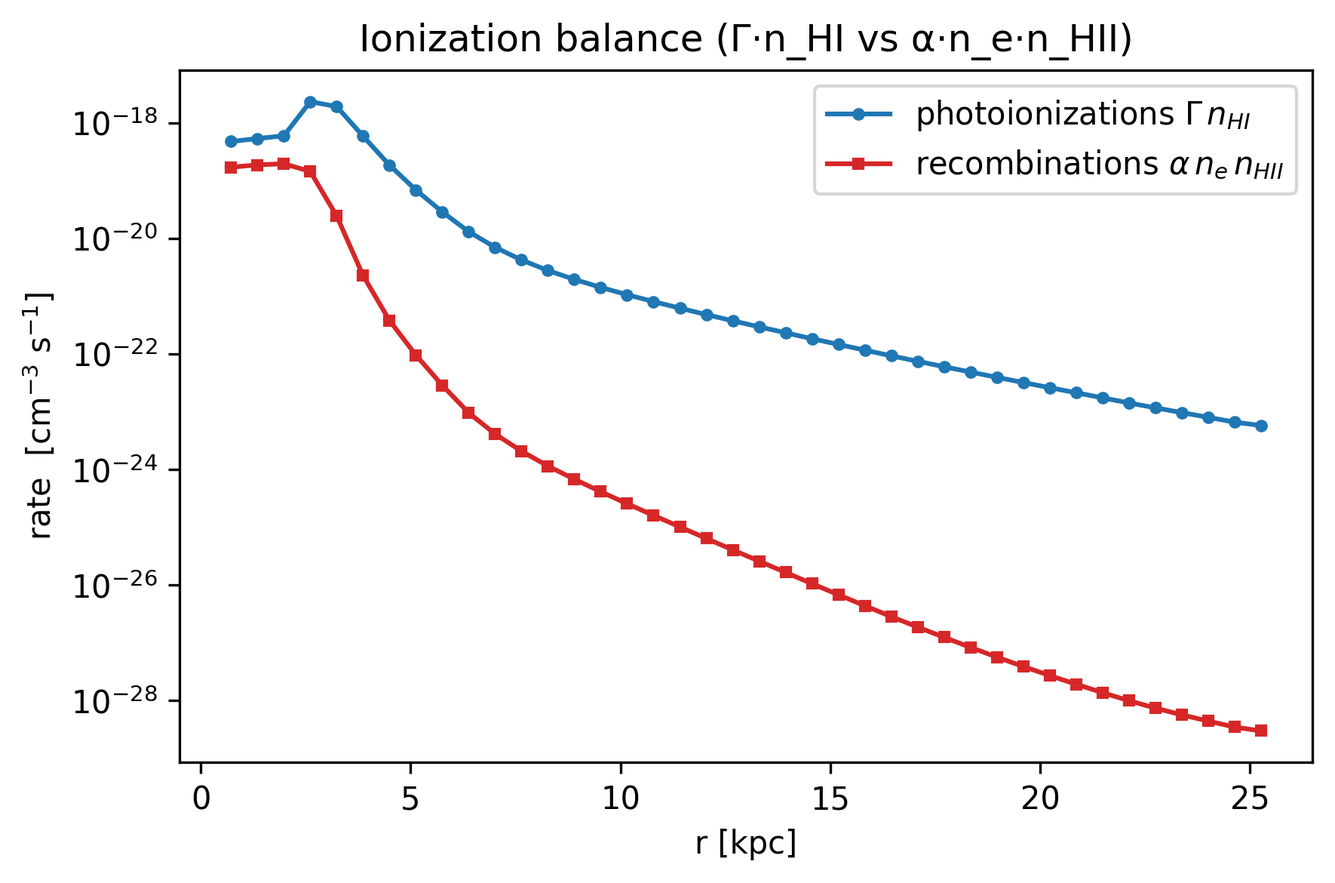
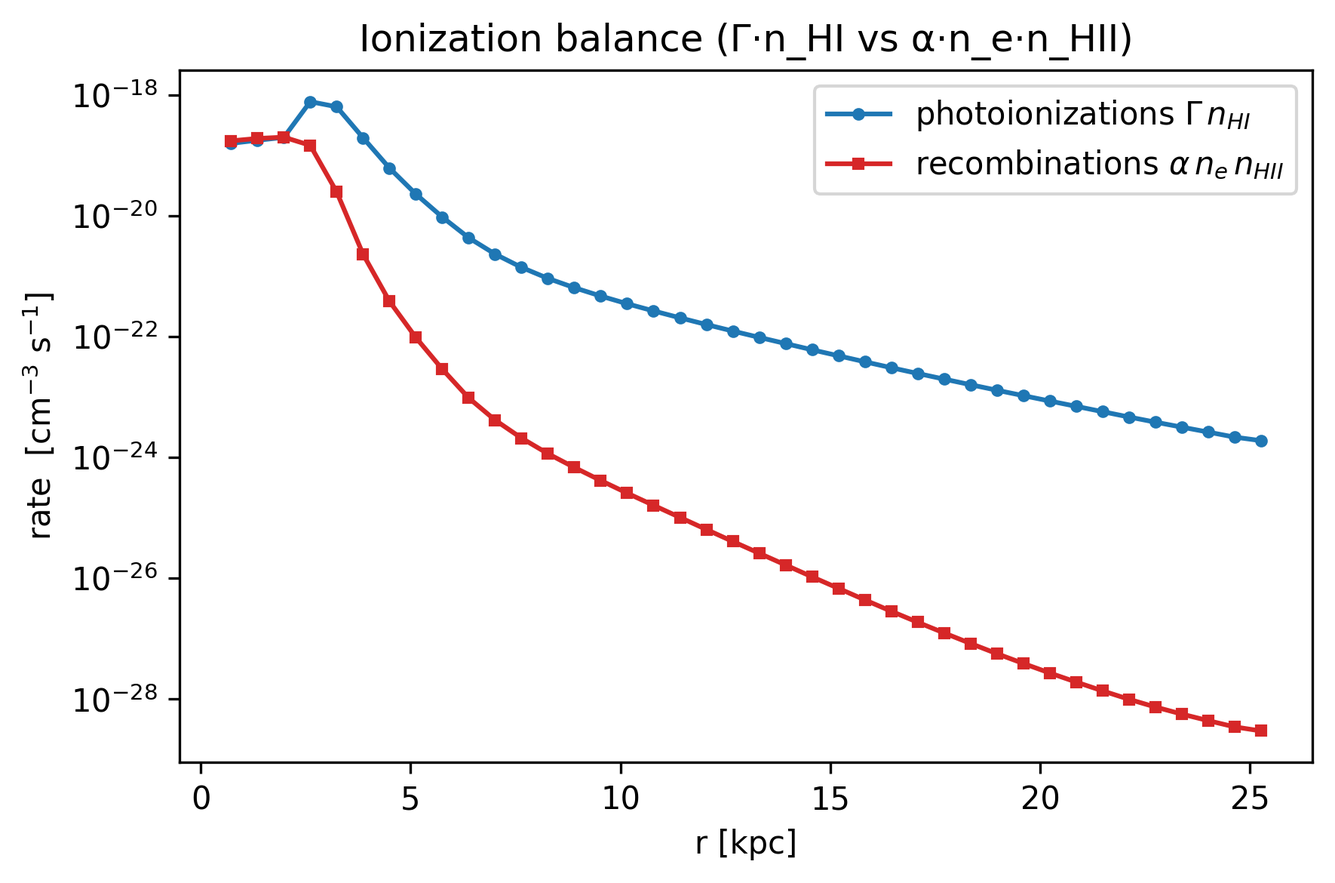
docs(rt): re-run with the photon density fix

diff --git a/docs/src/10_multi_RadiativeTransfer.md b/docs/src/10_multi_RadiativeTransfer.md
@@ -81,8 +81,8 @@ show_map(p.maps[:Np_total]; logscale=true,
 |       |    ___|    __  |       |
 | ||_|| |   |___|   |  | |   _   |
 |_|   |_|_______|___|  |_|__| |__|
-Mera v1.8.0 | Julia 1.12.7 | 4 threads
-[Mera]: 2026-08-31T13:57:52.461
+Mera v1.8.1 | Julia 1.12.7 | 4 threads
+[Mera]: 2026-10-22T19:03:28.663
 Code: RAMSES
 output [3] summary:
 mtime: 2026-08-20T16:57:42.963
@@ -115,16 +115,17 @@ clumps:           false
 -------------------------------------------------------
 namelist-file: ("&COOLING_PARAMS", "&AMR_PARAMS", "&OUTPUT_PARAMS", "&BOUNDARY_PARAMS", "&RT_PARAMS", "&RT_GROUPS\t\t\t! Blackbody at T=1d5 Kelvin", "&UNITS_PARAMS", "&RUN_PARAMS", "! the Sedov fixture the boundaries here are NOT periodic (see &BOUNDARY_PARAMS), so plain", "&HYDRO_PARAMS", "! Run:  mpirun -np 8 <build>/bin/ramses3d_rt stromgren3d.nml > run.log 2>&1", "&INIT_PARAMS", "&REFINE_PARAMS")
 -------------------------------------------------------
+boundaries:       not periodic (&BOUNDARY_PARAMS closes x, y, z)
 timer-file:       true
 compilation-file: true
 makefile:         true
 patchfile:        true
 =======================================================
-Processing files: 100%|██████████████████████████████████████████████████| Time: 0:00:00 (66.58 ms/it)
+Processing files: 100%|██████████████████████████████████████████████████| Time: 0:00:00 (72.05 ms/it)
 ✓ File processing complete! Combining results...
 ```
 
-![](10_multi_RadiativeTransfer_files/10_multi_RadiativeTransfer_4_10.png)
+![](10_multi_RadiativeTransfer_files/10_multi_RadiativeTransfer_4_16.png)
 
 **Takeaway:** `getinfo → getrt → projection → show_map` already reveals the ionized sphere.
 Everything below varies *what* we put through this same pipeline.
@@ -224,7 +225,7 @@ show_map(psub.maps[:Np_total]; logscale=true, clabel=L"$\log_{10}\,N_p^{\rm tota
 ```
 
 ```
-(full_cells = length(rt.data), sphere_cells = length(sub.data), shell_cells = length(shell.data)) = (full_cells = 32768, sphere_cells = 6176, shell_cells = 8864)
+(full_cells = length(rt.data), sphere_cells = length(sub.data), shell_cells = length(shell.data)) = (full_cells = 32768, sphere_cells = 6176, shell_cells = 9640)
 ```
 
 ![](10_multi_RadiativeTransfer_files/10_multi_RadiativeTransfer_13_3.png)
@@ -348,7 +349,7 @@ Columns:
 8   p          Float64
 9   scalar_00  Float64
 10  scalar_01  Float64
-11  scalar_02  Float64, InfoType(3, "/Volumes/FASTStorage/Simulations/Mera-Tests/RAMSES-PUBLIC/stromgren3d", FileNamesType("/Volumes/FASTStorage/Simulations/Mera-Tests/RAMSES-PUBLIC/stromgren3d/output_00003", "/Volumes/FASTStorage/Simulations/Mera-Tests/RAMSES-PUBLIC/stromgren3d/output_00003/info_00003.txt", "/Volumes/FASTStorage/Simulations/Mera-Tests/RAMSES-PUBLIC/stromgren3d/output_00003/amr_00003.", "/Volumes/FASTStorage/Simulations/Mera-Tests/RAMSES-PUBLIC/stromgren3d/output_00003/hydro_00003.", "/Volumes/FASTStorage/Simulations/Mera-Tests/RAMSES-PUBLIC/stromgren3d/output_00003/hydro_file_descriptor.txt", "/Volumes/FASTStorage/Simulations/Mera-Tests/RAMSES-PUBLIC/stromgren3d/output_00003/grav_00003.", "/Volumes/FASTStorage/Simulations/Mera-Tests/RAMSES-PUBLIC/stromgren3d/output_00003/part_00003.", "/Volumes/FASTStorage/Simulations/Mera-Tests/RAMSES-PUBLIC/stromgren3d/output_00003/part_file_descriptor.txt", "/Volumes/FASTStorage/Simulations/Mera-Tests/RAMSES-PUBLIC/stromgren3d/output_00003/rt_00003.", "/Volumes/FASTStorage/Simulations/Mera-Tests/RAMSES-PUBLIC/stromgren3d/output_00003/rt_file_descriptor.txt", "/Volumes/FASTStorage/Simulations/Mera-Tests/RAMSES-PUBLIC/stromgren3d/output_00003/info_rt_00003.txt", "/Volumes/FASTStorage/Simulations/Mera-Tests/RAMSES-PUBLIC/stromgren3d/output_00003/clump_00003.", "/Volumes/FASTStorage/Simulations/Mera-Tests/RAMSES-PUBLIC/stromgren3d/output_00003/sink_00003.csv", "/Volumes/FASTStorage/Simulations/Mera-Tests/RAMSES-PUBLIC/stromgren3d/output_00003/timer_00003.txt", "/Volumes/FASTStorage/Simulations/Mera-Tests/RAMSES-PUBLIC/stromgren3d/output_00003/header_00003.txt", "/Volumes/FASTStorage/Simulations/Mera-Tests/RAMSES-PUBLIC/stromgren3d/output_00003/namelist.txt", "/Volumes/FASTStorage/Simulations/Mera-Tests/RAMSES-PUBLIC/stromgren3d/output_00003/compilation.txt", "/Volumes/FASTStorage/Simulations/Mera-Tests/RAMSES-PUBLIC/stromgren3d/output_00003/makefile.txt", "/Volumes/FASTStorage/Simulations/Mera-Tests/RAMSES-PUBLIC/stromgren3d/output_00003/patches.txt"), "RAMSES", Dates.DateTime("2026-08-20T16:57:42.963"), Dates.DateTime("2026-08-20T16:57:42.963"), 8, 3, 5, 5, 15.0, 30.006753312671, 1.0, 1.0, 1.0, 0.0, 0.0, 0.045, 3.08568025e21, 1.66e-24, 4.877090903692205e40, 9.77813951206781e7, 3.1556926e13, 1.4, true, 8, 5, 12, [:rho, :vx, :vy, :vz, :p, :scalar_00, :scalar_01, :scalar_02], [:epot, :ax, :ay, :az], [:vx, :vy, :vz, :mass, :birth], [:Np1, :Fx1, :Fy1, :Fz1, :Np2, :Fx2, :Fy2, :Fz2, :Np3, :Fx3, :Fy3, :Fz3], Symbol[], Symbol[], DescriptorType(1, [:density, :velocity_x, :velocity_y, :velocity_z, :pressure, :scalar_00, :scalar_01, :scalar_02], ["d", "d", "d", "d", "d", "d", "d", "d"], false, true, 0, [:vx, :vy, :vz, :mass, :birth], String[], false, false, [:epot, :ax, :ay, :az], false, false, 1, Dict{Any, Any}(:g_star => 1.6, :T2_star => 0.0, :nRTvar => 12, :nIons => 3, :group_egy => [18.85, 35.08, 65.67], :rt_c_frac => 0.01, :unit_pf => 9.77813951206781e7, :n_star => 0.1, :X_fraction => 1.0, :unit_np => 1.0…), Dict{Any, Any}(:L0_eV => [13.6, 24.59, 54.42], 2 => Dict{Symbol, Any}(:cse_cm2 => [5.04e-19, 0.0, 0.0], :egy_eV => 35.08, :csn_cm2 => [5.69e-19, 0.0, 0.0]), :spec2group => [1, 2, 3], :L1_eV => [24.59, 54.42, 0.0], 3 => Dict{Symbol, Any}(:cse_cm2 => [7.46e-20, 0.0, 0.0], :egy_eV => 65.67, :csn_cm2 => [7.89e-20, 0.0, 0.0]), 1 => Dict{Symbol, Any}(:cse_cm2 => [2.78e-18, 0.0, 0.0], :egy_eV => 18.85, :csn_cm2 => [3.0e-18, 0.0, 0.0])), false, true, Symbol[], false, false, Symbol[], false, false), true, false, false, true, false, false, true, Dict{Any, Any}("&COOLING_PARAMS" => Dict{Any, Any}("cooling" => ".true."), "&AMR_PARAMS" => Dict{Any, Any}("levelmax" => "5", "ngridmax" => "50000", "boxlen" => "15.\t\t\t!  1 kpc", "levelmin" => "5", "nexpand" => "1"), "&OUTPUT_PARAMS" => Dict{Any, Any}("noutput" => "6", "tout" => "10.,30.,60.,120.,250.,500."), "&BOUNDARY_PARAMS" => Dict{Any, Any}("nboundary" => "6", "jbound_min" => "0, 0, -1,  1, -1, -1", "kbound_max" => "0, 0,  0,  0, -1,  1", "bound_type" => "1, 2,  1,  2,  1,  2", "ibound_max" => "-1, 1,  1,  1,  1,  1", "ibound_min" => "-1, 1, -1, -1, -1, -1", "jbound_max" => "0, 0, -1,  1,  1,  1", "kbound_min" => "0, 0,  0,  0, -1,  1"), "&RT_PARAMS" => Dict{Any, Any}("rt_source_type" => "3*'point'", "&RT_GROUPS\t\t\t! Blackbody at T" => "1d5 Kelvin", "rt_flux_scheme" => "'glf'", "rt_w_source" => "3*0", "rt_c_fraction" => "0.01", "rt_v_source" => "3*0", "rt_src_z_center" => "3*0.", "rt_src_length_y" => "3*1.0", "rt_src_length_z" => "3*1.0", "rt_courant_factor" => "0.8"…), "&RT_GROUPS\t\t\t! Blackbody at T=1d5 Kelvin" => Dict{Any, Any}("group_csn(2,:)" => "5.69d-19, 0.,0.   ! pck 2-> HI, HeI, HeII", "group_egy" => "18.85, 35.079, 65.666", "group_cse(2,:)" => "5.04d-19, 0.,0.   ! pck 2-> HI, HeI, HeII", "spec2group" => "1,2,3             ! HI, HeI, HeII -> pck", "group_cse(1,:)" => "2.78d-18, 0.,0.   ! pck 1-> HI, HeI, HeII", "group_csn(3,:)" => "7.89d-20, 0.,0.   ! pck 3-> HI, HeI, HeII", "group_csn(1,:)" => "3.00d-18, 0.,0.   ! pck 1-> HI, HeI, HeII", "group_cse(3,:)" => "7.46d-20, 0.,0.   ! pck 3-> HI, HeI, HeII"), "&UNITS_PARAMS" => Dict{Any, Any}("units_density" => "1.66d-24", "units_time" => "3.1556926d13", "units_length" => "3.08568025d21"), "&RUN_PARAMS" => Dict{Any, Any}("static_gas" => ".true.", "nsubcycle" => "10*1", "rt" => ".true.", "verbose" => ".false.", "nremap" => "0", "nrestart" => "0", "hydro" => ".true."), "! the Sedov fixture the boundaries here are NOT periodic (see &BOUNDARY_PARAMS), so plain" => Dict{Any, Any}(), "&HYDRO_PARAMS" => Dict{Any, Any}("slope_type" => "2", "gamma" => "1.4", "courant_factor" => "0.8", "riemann" => "'hllc'", "scheme" => "'muscl'")…), false, true, Mera.FilesContentType(["#############################################################################", "# If you have problems with this makefile, contact Romain.Teyssier@gmail.com", "#############################################################################", "# Compilation time parameters", "", "# Do we want a debug build? 1=Yes, 0=No", "DEBUG = 0", "# Do we want to test coverage?", "GCOV = 0", "# Compiler flavor: GNU or INTEL"  …  "\t\$(FC) -O0 -c write_patch.f90 -o \$@", "%.o:%.F", "\t\$(F90) \$(FFLAGS_BASE) \$(FFLAGS_OPT) -c \$^ -o \$@ \$(LIBS_OBJ) \$(LIBS_OBJ_TURB)", "%.o:%.f90", "\t\$(F90) \$(FFLAGS_BASE) \$(FFLAGS_OPT) -c \$^ -o \$@ \$(LIBS_OBJ) \$(LIBS_OBJ_TURB)", "FORCE:", "#############################################################################", "clean:", "\trm -f *.o *.\$(MOD) *.i", "#############################################################################"], [" --------------------------------------------------------------------", "", "     minimum       average       maximum  standard dev        std/av       %   rmn   rmx  TIMER", "       0.018         0.019         0.023         0.002         0.086     0.5     2   1    coarse levels           ", "       0.005         0.008         0.009         0.001         0.156     0.2     1   2    particles               ", "       0.028         0.028         0.029         0.000         0.002     0.7     2   1    io                      ", "       2.637         3.312         3.422         0.255         0.077    78.7     1   5    radiative transfer      ", "       0.102         0.103         0.104         0.001         0.006     2.5     1   3    courant                 ", "       0.025         0.026         0.027         0.000         0.017     0.6     5   2    hydro - set unew        ", "       0.600         0.710         1.386         0.256         0.360    16.9     5   1    cooling                 ", "       4.208     100.0    TOTAL"], ["no patches", " "]), true, true, true, 0, ScalesType003(0.0010000008648732505, 1.0000008648732506, 1000.0008648732505, 1.0000008648732505e6, 3261.5665977832837, 2.0626498462588077e23, 3.08568025e16, 3.08568025e19, 3.08568025e21, 3.0856802499999998e22, 3.08568025e25, 1.0000025946219956e-9, 1.0000025946219957, 1.0000025946219956e9, 1.0000025946219955e18, 3.4695947530005516e10, 8.775594075372522e69, 2.9380065684892807e49, 2.93800656848928e58, 2.93800656848928e64, 2.93800656848928e67, 2.93800656848928e76, 0.02451901990607664, 0.02451901990607664, 1.66e-24, 24.51904111192109, 24.51904111192109, 0.005122229215, 0.0009999786422288134, 0.9999786422288134, 999978.6422288134, 3.1556926e13, 3.1556926e16, 2.4519083523665e7, 2.4519083523665e7, 8.166322132032091e12, 2.5694187983395264e10, 4.877090903692205e40, 977.813951206781, 977813.951206781, 9.77813951206781e7, 0.76, 4.663084755571995e56, 1.587159404469864e-8, 1.1495748770830704e8, 1.1495748770830704e8, 1.5125985224777243e8, 1.5125985224777243e8, 1.587159404469864e-8, 1.587159404469864e-8, 1.1495748770830704e8, 1.1495748770830704e8, 1.0, 1.0, 4.877090903692205e40, 4.877090903692205e33, 1.66e-24, 1.6600000000000001e-25, 1.380649e-16, 1.4715262056331354e63, 1.4715262056331354e70, 1.4715262056331354e63, 0.0004465963871398189, 446.5963871398189, 446.5963871398189, 446596.3871398189, 4.465963871398189e-8, 2.9104685816882255e68, 2.9104685816882255e65, 2.9104685816882256e62, 1.4776739520104065e43, 3.860172288428439e9, 3.860172288428439e9, 3.4036683604631933e-65, 9.999974053847366e-10, 0.76, 302.98265527339925, 5.0295120775384285e-22, 1.5519466084796796, 4.897466427974422e36, 4.897466427974422e39, 4.897466427974422e42, 3.08568025e21, 3.08568025e21, 3.0985716137458414e-6, 3.098571613745841e-8, 3.0985716137458415e-11, 1000.0435818210707, 9.56120123174617e15, 9.561201231746171e11, 956120.123174617, 1.5871594044698644e-8, 4.663084755571996e56, 1.5112015431838721e35, 1.004177802851038e-27, 3.08568025e21, 4.877090903692205e40, 3.1556926e13, 1.0, 1.0, 3.0985716137458414e-6, 9.77813951206781e7, 3.0985716137458414e-6, 3.0985716137458414e-6, 3.0985716137458414e-6, 9.56120123174617e15, 3.0985716137458414e-6, 9.77813951206781e7, 1.0, 1.5871594044698644e-8, 1.5871594044698644e-8, 4.663084755571996e56, 9.56120123174617e15, 4.663084755571995e56, 3.08568025e21, 4.877090903692205e40, 4.877090903692205e40, 3.1556926e13, 4.663084755571995e56, 4.663084755571995e56, 1.0, 1.5112015431838721e35, 1.004177802851038e-27, 3.0985716137458414e-6, 3.0985716137458414e-6, 3.0985716137458414e-6, 3.0985716137458414e-6, 3.0985716137458414e-6, 3.08568025e21, 3.08568025e21, 1.0, 1.0, 1.0, 57.29577951308232), GridInfoType(50000, 736, 3, 3, 3, 5, 6, 1371, [0.0, 32768.0, 65536.0, 98304.0, 131072.0, 163840.0, 196608.0, 229376.0, 262144.0], Bool[0, 0, 0, 0, 0, 0, 0, 0]), PartInfoType(0.0, 10.000213582273508, 0.0, 0, 0, 0, 0, 0, 0, 0, 0, 0, 0, 0, 0, 0, 0), CompilationInfoType(" 08/20/26-18:38:15", " /Applications/Xcode.app/Contents/Developer/usr/bin/make NGROUPS", " ", " ", " "), PhysicalUnitsType002(0.01495978707, 3.08567758128e24, 3.08567758128e21, 3.08567758128e18, 3.08567758128e15, 9.4607304725808e17, 1.9891e33, 1.9891e33, 5.9722e27, 1.89813e30, 6.96e10, 6.96e10, 9.1093837015e-28, 1.67262192369e-24, 1.67492749804e-24, 1.66e-24, 1.6605390666e-24, 6.02214076e23, 2.99792458e10, 6.6743e-8, 1.380649e-16, 1.380649e-16, 6.62607015e-27, 1.0545718176461565e-27, 5.670374419e-5, 6.6524587321e-25, 0.0072973525693, 8.314462618e7, 1.602176634e-12, 1.602176634e-9, 1.602176634e-6, 0.001602176634, 3.828e33, 3.828e33, 1.6605390666e-24, 86400.0, 3600.0, 60.0, 3.15576e16, 3.15576e13, 3.15576e7)), 5, 5, 15.0, [0.0, 1.0, 0.0, 1.0, 0.0, 1.0], [1, 2, 3, 4, 5, 6, 7, 8], Dict{Any, Any}(5 => :p, 4 => :vz, 6 => :scalar_00, 7 => :scalar_01, 2 => :vx, 8 => :scalar_02, 3 => :vy, 1 => :rho), 0.0, 0.0, ScalesType003(0.0010000008648732505, 1.0000008648732506, 1000.0008648732505, 1.0000008648732505e6, 3261.5665977832837, 2.0626498462588077e23, 3.08568025e16, 3.08568025e19, 3.08568025e21, 3.0856802499999998e22, 3.08568025e25, 1.0000025946219956e-9, 1.0000025946219957, 1.0000025946219956e9, 1.0000025946219955e18, 3.4695947530005516e10, 8.775594075372522e69, 2.9380065684892807e49, 2.93800656848928e58, 2.93800656848928e64, 2.93800656848928e67, 2.93800656848928e76, 0.02451901990607664, 0.02451901990607664, 1.66e-24, 24.51904111192109, 24.51904111192109, 0.005122229215, 0.0009999786422288134, 0.9999786422288134, 999978.6422288134, 3.1556926e13, 3.1556926e16, 2.4519083523665e7, 2.4519083523665e7, 8.166322132032091e12, 2.5694187983395264e10, 4.877090903692205e40, 977.813951206781, 977813.951206781, 9.77813951206781e7, 0.76, 4.663084755571995e56, 1.587159404469864e-8, 1.1495748770830704e8, 1.1495748770830704e8, 1.5125985224777243e8, 1.5125985224777243e8, 1.587159404469864e-8, 1.587159404469864e-8, 1.1495748770830704e8, 1.1495748770830704e8, 1.0, 1.0, 4.877090903692205e40, 4.877090903692205e33, 1.66e-24, 1.6600000000000001e-25, 1.380649e-16, 1.4715262056331354e63, 1.4715262056331354e70, 1.4715262056331354e63, 0.0004465963871398189, 446.5963871398189, 446.5963871398189, 446596.3871398189, 4.465963871398189e-8, 2.9104685816882255e68, 2.9104685816882255e65, 2.9104685816882256e62, 1.4776739520104065e43, 3.860172288428439e9, 3.860172288428439e9, 3.4036683604631933e-65, 9.999974053847366e-10, 0.76, 302.98265527339925, 5.0295120775384285e-22, 1.5519466084796796, 4.897466427974422e36, 4.897466427974422e39, 4.897466427974422e42, 3.08568025e21, 3.08568025e21, 3.0985716137458414e-6, 3.098571613745841e-8, 3.0985716137458415e-11, 1000.0435818210707, 9.56120123174617e15, 9.561201231746171e11, 956120.123174617, 1.5871594044698644e-8, 4.663084755571996e56, 1.5112015431838721e35, 1.004177802851038e-27, 3.08568025e21, 4.877090903692205e40, 3.1556926e13, 1.0, 1.0, 3.0985716137458414e-6, 9.77813951206781e7, 3.0985716137458414e-6, 3.0985716137458414e-6, 3.0985716137458414e-6, 9.56120123174617e15, 3.0985716137458414e-6, 9.77813951206781e7, 1.0, 1.5871594044698644e-8, 1.5871594044698644e-8, 4.663084755571996e56, 9.56120123174617e15, 4.663084755571995e56, 3.08568025e21, 4.877090903692205e40, 4.877090903692205e40, 3.1556926e13, 4.663084755571995e56, 4.663084755571995e56, 1.0, 1.5112015431838721e35, 1.004177802851038e-27, 3.0985716137458414e-6, 3.0985716137458414e-6, 3.0985716137458414e-6, 3.0985716137458414e-6, 3.0985716137458414e-6, 3.08568025e21, 3.08568025e21, 1.0, 1.0, 1.0, 57.29577951308232))
+11  scalar_02  Float64, InfoType(3, "/Volumes/FASTStorage/Simulations/Mera-Tests/RAMSES-PUBLIC/stromgren3d", FileNamesType("/Volumes/FASTStorage/Simulations/Mera-Tests/RAMSES-PUBLIC/stromgren3d/output_00003", "/Volumes/FASTStorage/Simulations/Mera-Tests/RAMSES-PUBLIC/stromgren3d/output_00003/info_00003.txt", "/Volumes/FASTStorage/Simulations/Mera-Tests/RAMSES-PUBLIC/stromgren3d/output_00003/amr_00003.", "/Volumes/FASTStorage/Simulations/Mera-Tests/RAMSES-PUBLIC/stromgren3d/output_00003/hydro_00003.", "/Volumes/FASTStorage/Simulations/Mera-Tests/RAMSES-PUBLIC/stromgren3d/output_00003/hydro_file_descriptor.txt", "/Volumes/FASTStorage/Simulations/Mera-Tests/RAMSES-PUBLIC/stromgren3d/output_00003/grav_00003.", "/Volumes/FASTStorage/Simulations/Mera-Tests/RAMSES-PUBLIC/stromgren3d/output_00003/part_00003.", "/Volumes/FASTStorage/Simulations/Mera-Tests/RAMSES-PUBLIC/stromgren3d/output_00003/part_file_descriptor.txt", "/Volumes/FASTStorage/Simulations/Mera-Tests/RAMSES-PUBLIC/stromgren3d/output_00003/rt_00003.", "/Volumes/FASTStorage/Simulations/Mera-Tests/RAMSES-PUBLIC/stromgren3d/output_00003/rt_file_descriptor.txt", "/Volumes/FASTStorage/Simulations/Mera-Tests/RAMSES-PUBLIC/stromgren3d/output_00003/info_rt_00003.txt", "/Volumes/FASTStorage/Simulations/Mera-Tests/RAMSES-PUBLIC/stromgren3d/output_00003/clump_00003.", "/Volumes/FASTStorage/Simulations/Mera-Tests/RAMSES-PUBLIC/stromgren3d/output_00003/sink_00003.csv", "/Volumes/FASTStorage/Simulations/Mera-Tests/RAMSES-PUBLIC/stromgren3d/output_00003/timer_00003.txt", "/Volumes/FASTStorage/Simulations/Mera-Tests/RAMSES-PUBLIC/stromgren3d/output_00003/header_00003.txt", "/Volumes/FASTStorage/Simulations/Mera-Tests/RAMSES-PUBLIC/stromgren3d/output_00003/namelist.txt", "/Volumes/FASTStorage/Simulations/Mera-Tests/RAMSES-PUBLIC/stromgren3d/output_00003/compilation.txt", "/Volumes/FASTStorage/Simulations/Mera-Tests/RAMSES-PUBLIC/stromgren3d/output_00003/makefile.txt", "/Volumes/FASTStorage/Simulations/Mera-Tests/RAMSES-PUBLIC/stromgren3d/output_00003/patches.txt"), "RAMSES", Dates.DateTime("2026-08-20T16:57:42.963"), Dates.DateTime("2026-08-20T16:57:42.963"), 8, 3, 5, 5, 15.0, 30.006753312671, 1.0, 1.0, 1.0, 0.0, 0.0, 0.045, 3.08568025e21, 1.66e-24, 4.877090903692205e40, 9.77813951206781e7, 3.1556926e13, 1.4, true, 8, 5, 12, [:rho, :vx, :vy, :vz, :p, :scalar_00, :scalar_01, :scalar_02], [:epot, :ax, :ay, :az], [:vx, :vy, :vz, :mass, :birth], [:Np1, :Fx1, :Fy1, :Fz1, :Np2, :Fx2, :Fy2, :Fz2, :Np3, :Fx3, :Fy3, :Fz3], Symbol[], Symbol[], DescriptorType(1, [:density, :velocity_x, :velocity_y, :velocity_z, :pressure, :scalar_00, :scalar_01, :scalar_02], ["d", "d", "d", "d", "d", "d", "d", "d"], false, true, 0, [:vx, :vy, :vz, :mass, :birth], String[], false, false, [:epot, :ax, :ay, :az], false, false, 1, Dict{Any, Any}(:g_star => 1.6, :T2_star => 0.0, :nRTvar => 12, :nIons => 3, :group_egy => [18.85, 35.08, 65.67], :rt_c_frac => 0.01, :unit_pf => 9.77813951206781e7, :n_star => 0.1, :rt_c_frac_levels => [0.01], :X_fraction => 1.0…), Dict{Any, Any}(:L0_eV => [13.6, 24.59, 54.42], 2 => Dict{Symbol, Any}(:cse_cm2 => [5.04e-19, 0.0, 0.0], :egy_eV => 35.08, :csn_cm2 => [5.69e-19, 0.0, 0.0]), :spec2group => [1, 2, 3], :L1_eV => [24.59, 54.42, 0.0], 3 => Dict{Symbol, Any}(:cse_cm2 => [7.46e-20, 0.0, 0.0], :egy_eV => 65.67, :csn_cm2 => [7.89e-20, 0.0, 0.0]), 1 => Dict{Symbol, Any}(:cse_cm2 => [2.78e-18, 0.0, 0.0], :egy_eV => 18.85, :csn_cm2 => [3.0e-18, 0.0, 0.0])), false, true, Symbol[], false, false, Symbol[], false, false), true, false, false, true, false, false, true, Dict{Any, Any}("&COOLING_PARAMS" => Dict{Any, Any}("cooling" => ".true."), "&AMR_PARAMS" => Dict{Any, Any}("levelmax" => "5", "ngridmax" => "50000", "boxlen" => "15.\t\t\t!  1 kpc", "levelmin" => "5", "nexpand" => "1"), "&OUTPUT_PARAMS" => Dict{Any, Any}("noutput" => "6", "tout" => "10.,30.,60.,120.,250.,500."), "&BOUNDARY_PARAMS" => Dict{Any, Any}("nboundary" => "6", "jbound_min" => "0, 0, -1,  1, -1, -1", "kbound_max" => "0, 0,  0,  0, -1,  1", "bound_type" => "1, 2,  1,  2,  1,  2", "ibound_max" => "-1, 1,  1,  1,  1,  1", "ibound_min" => "-1, 1, -1, -1, -1, -1", "jbound_max" => "0, 0, -1,  1,  1,  1", "kbound_min" => "0, 0,  0,  0, -1,  1"), "&RT_PARAMS" => Dict{Any, Any}("rt_source_type" => "3*'point'", "&RT_GROUPS\t\t\t! Blackbody at T" => "1d5 Kelvin", "rt_flux_scheme" => "'glf'", "rt_w_source" => "3*0", "rt_c_fraction" => "0.01", "rt_v_source" => "3*0", "rt_src_z_center" => "3*0.", "rt_src_length_y" => "3*1.0", "rt_src_length_z" => "3*1.0", "rt_courant_factor" => "0.8"…), "&RT_GROUPS\t\t\t! Blackbody at T=1d5 Kelvin" => Dict{Any, Any}("group_csn(2,:)" => "5.69d-19, 0.,0.   ! pck 2-> HI, HeI, HeII", "group_egy" => "18.85, 35.079, 65.666", "group_cse(2,:)" => "5.04d-19, 0.,0.   ! pck 2-> HI, HeI, HeII", "spec2group" => "1,2,3             ! HI, HeI, HeII -> pck", "group_cse(1,:)" => "2.78d-18, 0.,0.   ! pck 1-> HI, HeI, HeII", "group_csn(3,:)" => "7.89d-20, 0.,0.   ! pck 3-> HI, HeI, HeII", "group_csn(1,:)" => "3.00d-18, 0.,0.   ! pck 1-> HI, HeI, HeII", "group_cse(3,:)" => "7.46d-20, 0.,0.   ! pck 3-> HI, HeI, HeII"), "&UNITS_PARAMS" => Dict{Any, Any}("units_density" => "1.66d-24", "units_time" => "3.1556926d13", "units_length" => "3.08568025d21"), "&RUN_PARAMS" => Dict{Any, Any}("static_gas" => ".true.", "nsubcycle" => "10*1", "rt" => ".true.", "verbose" => ".false.", "nremap" => "0", "nrestart" => "0", "hydro" => ".true."), "! the Sedov fixture the boundaries here are NOT periodic (see &BOUNDARY_PARAMS), so plain" => Dict{Any, Any}(), "&HYDRO_PARAMS" => Dict{Any, Any}("slope_type" => "2", "gamma" => "1.4", "courant_factor" => "0.8", "riemann" => "'hllc'", "scheme" => "'muscl'")…), :nonperiodic, false, true, Mera.FilesContentType(["#############################################################################", "# If you have problems with this makefile, contact Romain.Teyssier@gmail.com", "#############################################################################", "# Compilation time parameters", "", "# Do we want a debug build? 1=Yes, 0=No", "DEBUG = 0", "# Do we want to test coverage?", "GCOV = 0", "# Compiler flavor: GNU or INTEL"  …  "\t\$(FC) -O0 -c write_patch.f90 -o \$@", "%.o:%.F", "\t\$(F90) \$(FFLAGS_BASE) \$(FFLAGS_OPT) -c \$^ -o \$@ \$(LIBS_OBJ) \$(LIBS_OBJ_TURB)", "%.o:%.f90", "\t\$(F90) \$(FFLAGS_BASE) \$(FFLAGS_OPT) -c \$^ -o \$@ \$(LIBS_OBJ) \$(LIBS_OBJ_TURB)", "FORCE:", "#############################################################################", "clean:", "\trm -f *.o *.\$(MOD) *.i", "#############################################################################"], [" --------------------------------------------------------------------", "", "     minimum       average       maximum  standard dev        std/av       %   rmn   rmx  TIMER", "       0.018         0.019         0.023         0.002         0.086     0.5     2   1    coarse levels           ", "       0.005         0.008         0.009         0.001         0.156     0.2     1   2    particles               ", "       0.028         0.028         0.029         0.000         0.002     0.7     2   1    io                      ", "       2.637         3.312         3.422         0.255         0.077    78.7     1   5    radiative transfer      ", "       0.102         0.103         0.104         0.001         0.006     2.5     1   3    courant                 ", "       0.025         0.026         0.027         0.000         0.017     0.6     5   2    hydro - set unew        ", "       0.600         0.710         1.386         0.256         0.360    16.9     5   1    cooling                 ", "       4.208     100.0    TOTAL"], ["no patches", " "]), true, true, true, 0, ScalesType003(0.0010000008648732505, 1.0000008648732506, 1000.0008648732505, 1.0000008648732505e6, 3261.5665977832837, 2.0626498462588078e8, 3.08568025e16, 3.08568025e19, 3.08568025e21, 3.0856802499999998e22, 3.08568025e25, 1.0000025946219956e-9, 1.0000025946219957, 1.0000025946219956e9, 1.0000025946219955e18, 3.4695947530005516e10, 8.775594075372523e24, 2.9380065684892807e49, 2.93800656848928e58, 2.93800656848928e64, 2.93800656848928e67, 2.93800656848928e76, 0.02451901990607664, 0.02451901990607664, 1.66e-24, 24.51904111192109, 24.51904111192109, 0.005122229215, 0.0009999786422288134, 0.9999786422288134, 999978.6422288134, 3.1556926e13, 3.1556926e16, 2.4519083523665e7, 2.4519083523665e7, 8.166322132032091e12, 2.5694187983395264e10, 4.877090903692205e40, 977.813951206781, 977813.951206781, 9.77813951206781e7, 0.76, 4.663084755571995e56, 1.587159404469864e-8, 1.1495748770830704e8, 1.1495748770830704e8, 1.5125985224777243e8, 1.5125985224777243e8, 1.587159404469864e-8, 1.587159404469864e-8, 1.1495748770830704e8, 1.1495748770830704e8, 1.0, 1.0, 4.877090903692205e40, 4.877090903692205e33, 1.66e-24, 1.6600000000000001e-25, 1.380649e-16, 1.4715262056331354e63, 1.4715262056331354e70, 1.4715262056331354e63, 0.0004465963871398189, 446.5963871398189, 446.5963871398189, 446596.3871398189, 4.465963871398189e-8, 2.9104685816882255e68, 2.9104685816882255e65, 2.9104685816882256e62, 1.4776739520104065e43, 3.860172288428439e9, 3.860172288428439e9, 3.4036683604631933e-65, 9.999974053847366e-10, 0.76, 302.98265527339925, 5.0295120775384285e-22, 1.5519466084796796, 4.897466427974422e36, 4.897466427974422e39, 4.897466427974422e42, 3.08568025e21, 3.08568025e21, 3.0985716137458414e-6, 3.098571613745841e-8, 3.0985716137458415e-11, 1000.0435818210707, 9.56120123174617e15, 9.561201231746171e11, 956120.123174617, 1.5871594044698644e-8, 4.663084755571996e56, 1.5112015431838721e35, 1.004177802851038e-27, 3.08568025e21, 4.877090903692205e40, 3.1556926e13, 1.0, 1.0, 3.0985716137458414e-6, 9.77813951206781e7, 3.0985716137458414e-6, 3.0985716137458414e-6, 3.0985716137458414e-6, 9.56120123174617e15, 3.0985716137458414e-6, 9.77813951206781e7, 1.0, 1.5871594044698644e-8, 1.5871594044698644e-8, 4.663084755571996e56, 9.56120123174617e15, 4.663084755571995e56, 3.08568025e21, 4.877090903692205e40, 4.877090903692205e40, 3.1556926e13, 4.663084755571995e56, 4.663084755571995e56, 1.0, 1.5112015431838721e35, 1.004177802851038e-27, 3.0985716137458414e-6, 3.0985716137458414e-6, 3.0985716137458414e-6, 3.0985716137458414e-6, 3.0985716137458414e-6, 3.08568025e21, 3.08568025e21, 1.0, 1.0, 1.0, 57.29577951308232), GridInfoType(50000, 736, 3, 3, 3, 5, 6, 1371, [0.0, 32768.0, 65536.0, 98304.0, 131072.0, 163840.0, 196608.0, 229376.0, 262144.0], Bool[0, 0, 0, 0, 0, 0, 0, 0], Dict{Symbol, Any}(:omega_m => 1.0, :h0 => 1.0, :nstep_coarse => 736, :omega_b => 0.045, :iout => 3, :dtold => [0.0, 0.0, 0.0, 0.0, 0.040770045261781636], :einit => 7.352512333340476e-6, :boxlen_ini => 0.0, :tout => [10.0, 30.0, 60.0, 120.0, 250.0, 500.0], :aout => [1.7976931348623157e308, 1.7976931348623157e308, 1.7976931348623157e308, 1.7976931348623157e308, 1.7976931348623157e308, 1.7976931348623157e308]…)), PartInfoType(0.0, 10.000213582273508, 0.0, 0, 0, 0, 0, 0, 0, 0, 0, 0, 0, 0, 0, 0, 0), CompilationInfoType(" 08/20/26-18:38:15", " /Applications/Xcode.app/Contents/Developer/usr/bin/make NGROUPS", " ", " ", " "), PhysicalUnitsType002(1.495978707e13, 3.08567758128e24, 3.08567758128e21, 3.08567758128e18, 3.08567758128e15, 9.4607304725808e17, 1.9891e33, 1.9891e33, 5.9722e27, 1.89813e30, 6.96e10, 6.96e10, 9.1093837015e-28, 1.67262192369e-24, 1.67492749804e-24, 1.66e-24, 1.6605390666e-24, 6.02214076e23, 2.99792458e10, 6.6743e-8, 1.380649e-16, 1.380649e-16, 6.62607015e-27, 1.0545718176461565e-27, 5.670374419e-5, 6.6524587321e-25, 0.0072973525693, 8.314462618e7, 1.602176634e-12, 1.602176634e-9, 1.602176634e-6, 0.001602176634, 3.828e33, 3.828e33, 1.6605390666e-24, 86400.0, 3600.0, 60.0, 3.15576e16, 3.15576e13, 3.15576e7)), 5, 5, 15.0, [0.0, 1.0, 0.0, 1.0, 0.0, 1.0], [1, 2, 3, 4, 5, 6, 7, 8], Dict{Any, Any}(5 => :p, 4 => :vz, 6 => :scalar_00, 7 => :scalar_01, 2 => :vx, 8 => :scalar_02, 3 => :vy, 1 => :rho), 0.0, 0.0, ScalesType003(0.0010000008648732505, 1.0000008648732506, 1000.0008648732505, 1.0000008648732505e6, 3261.5665977832837, 2.0626498462588078e8, 3.08568025e16, 3.08568025e19, 3.08568025e21, 3.0856802499999998e22, 3.08568025e25, 1.0000025946219956e-9, 1.0000025946219957, 1.0000025946219956e9, 1.0000025946219955e18, 3.4695947530005516e10, 8.775594075372523e24, 2.9380065684892807e49, 2.93800656848928e58, 2.93800656848928e64, 2.93800656848928e67, 2.93800656848928e76, 0.02451901990607664, 0.02451901990607664, 1.66e-24, 24.51904111192109, 24.51904111192109, 0.005122229215, 0.0009999786422288134, 0.9999786422288134, 999978.6422288134, 3.1556926e13, 3.1556926e16, 2.4519083523665e7, 2.4519083523665e7, 8.166322132032091e12, 2.5694187983395264e10, 4.877090903692205e40, 977.813951206781, 977813.951206781, 9.77813951206781e7, 0.76, 4.663084755571995e56, 1.587159404469864e-8, 1.1495748770830704e8, 1.1495748770830704e8, 1.5125985224777243e8, 1.5125985224777243e8, 1.587159404469864e-8, 1.587159404469864e-8, 1.1495748770830704e8, 1.1495748770830704e8, 1.0, 1.0, 4.877090903692205e40, 4.877090903692205e33, 1.66e-24, 1.6600000000000001e-25, 1.380649e-16, 1.4715262056331354e63, 1.4715262056331354e70, 1.4715262056331354e63, 0.0004465963871398189, 446.5963871398189, 446.5963871398189, 446596.3871398189, 4.465963871398189e-8, 2.9104685816882255e68, 2.9104685816882255e65, 2.9104685816882256e62, 1.4776739520104065e43, 3.860172288428439e9, 3.860172288428439e9, 3.4036683604631933e-65, 9.999974053847366e-10, 0.76, 302.98265527339925, 5.0295120775384285e-22, 1.5519466084796796, 4.897466427974422e36, 4.897466427974422e39, 4.897466427974422e42, 3.08568025e21, 3.08568025e21, 3.0985716137458414e-6, 3.098571613745841e-8, 3.0985716137458415e-11, 1000.0435818210707, 9.56120123174617e15, 9.561201231746171e11, 956120.123174617, 1.5871594044698644e-8, 4.663084755571996e56, 1.5112015431838721e35, 1.004177802851038e-27, 3.08568025e21, 4.877090903692205e40, 3.1556926e13, 1.0, 1.0, 3.0985716137458414e-6, 9.77813951206781e7, 3.0985716137458414e-6, 3.0985716137458414e-6, 3.0985716137458414e-6, 9.56120123174617e15, 3.0985716137458414e-6, 9.77813951206781e7, 1.0, 1.5871594044698644e-8, 1.5871594044698644e-8, 4.663084755571996e56, 9.56120123174617e15, 4.663084755571995e56, 3.08568025e21, 4.877090903692205e40, 4.877090903692205e40, 3.1556926e13, 4.663084755571995e56, 4.663084755571995e56, 1.0, 1.5112015431838721e35, 1.004177802851038e-27, 3.0985716137458414e-6, 3.0985716137458414e-6, 3.0985716137458414e-6, 3.0985716137458414e-6, 3.0985716137458414e-6, 3.08568025e21, 3.08568025e21, 1.0, 1.0, 1.0, 57.29577951308232))
 ```
 
 ## Ionization map: slice vs. column
@@ -417,17 +418,17 @@ xh    = getvar(gas, :xHII)
 Trt   = getvar(gas, :T_rt)
 rc1, xhm = radial_mean(r_kpc, xh)
 _,   Tm  = radial_mean(r_kpc, Trt)
-ifront = rc1[something(findlast(x -> !isnan(x) && x > 0.5, xhm), 1)]
+r_front = rc1[something(findlast(x -> !isnan(x) && x > 0.5, xhm), 1)]
 fig = figure(figsize=(6,4)); ax1 = gca()
 ax1.plot(rc1, xhm, "-o", color="C0", ms=3); ax1.set_xlabel("r [kpc]"); ax1.set_ylabel("xHII", color="C0")
-ax1.axvline(ifront, ls="--", color="gray"); ax1.text(ifront, 0.55, "  I-front", color="gray")
+ax1.axvline(r_front, ls="--", color="gray"); ax1.text(r_front, 0.55, "  I-front", color="gray")
 ax2 = ax1.twinx(); ax2.plot(rc1, Tm, "-s", color="C3", ms=3); ax2.set_ylabel("T_rt [K]", color="C3")
 title("Strömgren sphere: ionization & temperature"); tight_layout();
-@show round(ifront, digits=2)   # measured ionization-front radius [kpc]
+@show round(r_front, digits=2)   # measured ionization-front radius [kpc]
 ```
 
 ```
-round(ifront, digits = 2) = 2.61
+round(r_front, digits = 2) = 2.61
 ```
 
 ![](10_multi_RadiativeTransfer_files/10_multi_RadiativeTransfer_28_3.png)
@@ -473,7 +474,7 @@ title("Ionization–temperature relation"); tight_layout();
 ## Radiation to matter rates & ionization balance
 
 The radiation field drives the gas. From the **RT** object: the **photoionization rate**
-`Γ_HI = Σ_g c·Np_g·σ_g` [s⁻¹] (using the reduced light speed `rt_c_frac·c`) and the
+`Γ_HI = Σ_g c̃·N_g·σ_g` [s⁻¹], with `c̃ = rt_c_frac·c` the reduced light speed and `N_g` the photon density (RAMSES-RT stores the product `c̃·N_g`) and the
 **photoheating rate** per HI atom. From the **hydro** object: the **recombination rate**
 `α_B(T)·n_e·n_HII`. In photoionization equilibrium these balance *locally*:
 `Γ·n_HI ≈ α·n_e·n_HII`.
@@ -481,10 +482,7 @@ The radiation field drives the gas. From the **RT** object: the **photoionizatio
 Quantities that **couple both objects** (`:photoionizations`, `:ionization_balance`) are
 requested on the RT object with `hydro_data=gas` (both loaded over the same cells, Mera
 checks the alignment). The radial profile below shows the two rates **tracking in shape**
-through the ionized interior. They are **not yet equal**: at this early time
-`t ≈ 20 Myr ≪ t_rec ≈ 120 Myr` (`t/t_rec ≈ 0.16`) the front is still **expanding** toward `R_S`,
-so photoionizations currently outpace recombinations (core ratio ≈ 5 > 1). Exact local balance
-(ratio → 1) is reached only asymptotically (`t ≫ t_rec`).
+through the ionized interior. Inside the ionized core the two nearly balance: photoionizations exceed recombinations by about 40% (the ratio printed below), because the front still expands toward `R_S` (`t ≈ 30 Myr`, `t_rec ≈ 120 Myr`). Exact balance (ratio → 1) is reached only for `t ≫ t_rec`.
 
 ```julia
 @show maximum(getvar(rt, :Gamma_HI))          # photoionization rate [1/s]
@@ -496,7 +494,7 @@ rec  = getvar(gas, :recomb_rate)
 rcb, pion_r = radial_mean(r_kpc, pion)
 _,   rec_r  = radial_mean(r_kpc, rec)
 core = getvar(gas, :xHII) .> 0.9
-@show round(sum(pion[core]) / sum(rec[core]), digits=2)   # >1 ⇒ still ionizing (t ≪ t_rec); → 1 only as t ≫ t_rec
+@show round(sum(pion[core]) / sum(rec[core]), digits=2)   # near 1: close to photoionization equilibrium
 @show maximum(getvar(rt, :ionization_balance, hydro_data=gas))   # Γ·n_HI − α·n_e·n_HII
 
 figure(figsize=(6,4))
@@ -507,10 +505,10 @@ legend(loc="upper right"); title("Ionization balance (Γ·n_HI vs α·n_e·n_HII
 ```
 
 ```
-maximum(getvar(rt, :Gamma_HI)) = 1.1379022132736983e-12
-maximum(getvar(rt, :photoheating_HI)) = 1.357061014902275e-23
-round(sum(pion[core]) / sum(rec[core]), digits = 2) = 4.2
-maximum(getvar(rt, :ionization_balance, hydro_data = gas)) = 3.2746012509460365e-18
+maximum(getvar(rt, :Gamma_HI)) = 3.711423118082898e-13
+maximum(getvar(rt, :photoheating_HI)) = 4.426239411967721e-24
+round(sum(pion[core]) / sum(rec[core]), digits = 2) = 1.37
+maximum(getvar(rt, :ionization_balance, hydro_data = gas)) = 1.0161473703382636e-18
 ```
 
 ![](10_multi_RadiativeTransfer_files/10_multi_RadiativeTransfer_32_3.png)
@@ -539,8 +537,8 @@ show_map(um.maps[:rad_energy_density]; logscale=true, cmap="magma",
 ```
 info.descriptor.rt[:group_egy] = [18.85, 35.08, 65.67]
 info.descriptor.rtPhotonGroups[1] = Dict{Symbol, Any}(:cse_cm2 => [2.78e-18, 0.0, 0.0], :egy_eV => 18.85, :csn_cm2 => [3.0e-18, 0.0, 0.0])
-maximum(getvar(rt, :rad_energy_density)) = 1.1090467888595723e-13
-extrema(getvar(rt, :Np1_cgs)) = (1.9695717303063266e-49, 0.0010425690408447943)
+maximum(getvar(rt, :rad_energy_density)) = 3.6173072195430976e-14
+extrema(getvar(rt, :Np1_cgs)) = (6.424026570394928e-50, 0.00034004809861971647)
 ```
 
 ![](10_multi_RadiativeTransfer_files/10_multi_RadiativeTransfer_34_2.png)
@@ -569,13 +567,13 @@ println("n_H              = ", round(nH, sigdigits=3), " cm^-3")
 println("R_S (asymptotic) = ", round(R_S, digits=2), " kpc")
 println("r_I(t=", round(info.time*info.scale.Myr, digits=0), " Myr) = ", round(r_I, digits=2),
         " kpc   (t_rec = ", round(t_rec/3.156e13, digits=0), " Myr)")
-println("measured front   = ", round(ifront, digits=2), " kpc   → still expanding toward R_S")
+println("measured front   = ", round(r_front, digits=2), " kpc   → still expanding toward R_S")
 ```
 
 ```
 maximum(getvar(rt, :reducedflux1)) = 0.9888163855508687
 maximum(getvar(rt, :Fmag1_cgs)) = 13086.144286562321
-maximum(getvar(rt, :photon_energy_density1)) = 3.14866584114071e-14
+maximum(getvar(rt, :photon_energy_density1)) = 1.0269802675141416e-14
 extrema(getvar(gas, :xHI)) = (0.00036018407894478077, 0.9999979654335612)
 n_H              = 0.001 cm^-3
 R_S (asymptotic) = 5.39 kpc
